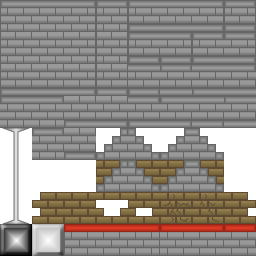
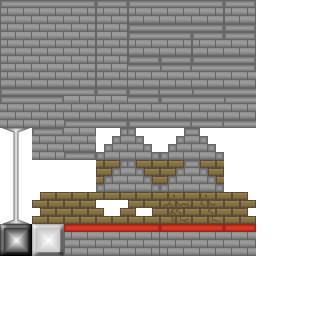
Adaptação para tilesets de 10 por 10 tiles.

diff --git a/minigl/main.rb b/minigl/main.rb
@@ -6,6 +6,7 @@ Cell = Struct.new(:back, :fore, :obj, :hide)
 class SBEditor < GameWindow
   EDITOR_WIDTH = 1024
   EDITOR_HEIGHT = 576
+  TOTAL_TILES = 100
   NULL_COLOR = 0x11000000
   HIDE_COLOR = 0x33000099
   RAMP_COLOR = 0x66000000
@@ -33,7 +34,7 @@ class SBEditor < GameWindow
     @element_area = Rectangle.new(26, 435, 64, 64)
     @ramp_area = Rectangle.new(118, 435, 64, 64)
     @tile_areas = []
-    (0..63).each { |i| @tile_areas[i] = Rectangle.new(4 + (i % 8) * 24, 200 + (i / 8) * 24, 24, 24) }
+    (0..99).each { |i| @tile_areas[i] = Rectangle.new((i % 10) * 20, 200 + (i / 10) * 20, 20, 20) }
 
     @ramps = []
     @switch_codes = []
@@ -109,12 +110,12 @@ class SBEditor < GameWindow
       Button.new(4, 500, @font, 'Próximo', :button) {
         @element_index += 1
         @element_index = 0 if @element_index == @elements.size
-        @cur_element = 65 + @element_index
+        @cur_element = TOTAL_TILES + @element_index + 1
       },
       Button.new(4, 518, @font, 'Anterior', :button) {
         @element_index -= 1
         @element_index = @elements.size - 1 if @element_index < 0
-        @cur_element = 65 + @element_index
+        @cur_element = TOTAL_TILES + @element_index + 1
       },
       Button.new(4, 588, @font, 'Próximo', :button) {
         @exit_type += 1
@@ -197,14 +198,14 @@ class SBEditor < GameWindow
             @ramps << "#{@components[4].text}:#{map_pos.x},#{map_pos.y}"
           end
         else
-          (0..63).each do |i|
+          (0..(TOTAL_TILES - 1)).each do |i|
             if Mouse.over? @tile_areas[i]
               @cur_element = i + 1
               break
             end
           end
           if Mouse.over? @element_area
-            @cur_element = 65 + @element_index
+            @cur_element = TOTAL_TILES + @element_index + 1
           elsif Mouse.over? @ramp_area
             @cur_element = -1
           end
@@ -213,11 +214,11 @@ class SBEditor < GameWindow
       if Mouse.over? @editable_area and @cur_element > 0
         map_pos = @map.get_map_pos(Mouse.x - @margin.x, Mouse.y)
         if Mouse.double_click? :left
-          if @cur_element <= 64 and (@tile_type == 2 or @tile_type == 4)
+          if @cur_element <= TOTAL_TILES and (@tile_type == 2 or @tile_type == 4)
             code = "b#{'%02d' % (@cur_element - 1)}"
             check_fill(map_pos.x, map_pos.y, code)
           end
-        elsif @cur_element <= 64
+        elsif @cur_element <= TOTAL_TILES
           if @tile_type == 0 or @tile_type == 1
             @objects[map_pos.x][map_pos.y].obj = (@tile_type == 0 ? 'w' : 'p') + ('%02d' % (@cur_element - 1))
           elsif @tile_type == 2
@@ -227,12 +228,12 @@ class SBEditor < GameWindow
           else
             @objects[map_pos.x][map_pos.y].hide = 'h00'
           end
-        elsif @cur_element == 65 # bomba
+        elsif @cur_element == TOTAL_TILES + 1 # bomba
           if @components[3].text != ''
             @objects[map_pos.x][map_pos.y].obj = "!#{@components[3].text}"
           end
         else
-          symbol = @switch_codes.include?(@cur_element - 65) ? '$' : '@'
+          symbol = @switch_codes.include?(@cur_element - TOTAL_TILES - 1) ? '$' : '@'
           text = "#{symbol}#{@element_index}"
           text += ":#{@components[3].text.gsub('|', ':')}" if @components[3].text != ''
           @objects[map_pos.x][map_pos.y].obj = text
@@ -440,13 +441,13 @@ class SBEditor < GameWindow
     end
     @elements[@element_index].draw 26 + (64 - @elements[@element_index].width) / 2,
                                    435 + (64 - @elements[@element_index].height) / 2, 0
-    @tilesets[@cur_tileset].draw 4, 200, 0, 0.75, 0.75
+    @tilesets[@cur_tileset].draw 0, 200, 0, 0.625, 0.625
     draw_ramp @ramp_area.x, @ramp_area.y, @ramp_area.w, @ramp_area.h, true
 
     if @cur_element < 0
       draw_selection @ramp_area.x, @ramp_area.y, @ramp_area.w, @ramp_area.h
-    elsif @cur_element < 65
-      draw_selection 4 + ((@cur_element - 1) % 8) * 24, 200 + ((@cur_element - 1) / 8) * 24, 24, 24
+    elsif @cur_element <= TOTAL_TILES
+      draw_selection ((@cur_element - 1) % 10) * 20, 200 + ((@cur_element - 1) / 10) * 20, 20, 20
     else
       draw_selection @element_area.x, @element_area.y, @element_area.w, @element_area.h
     end
